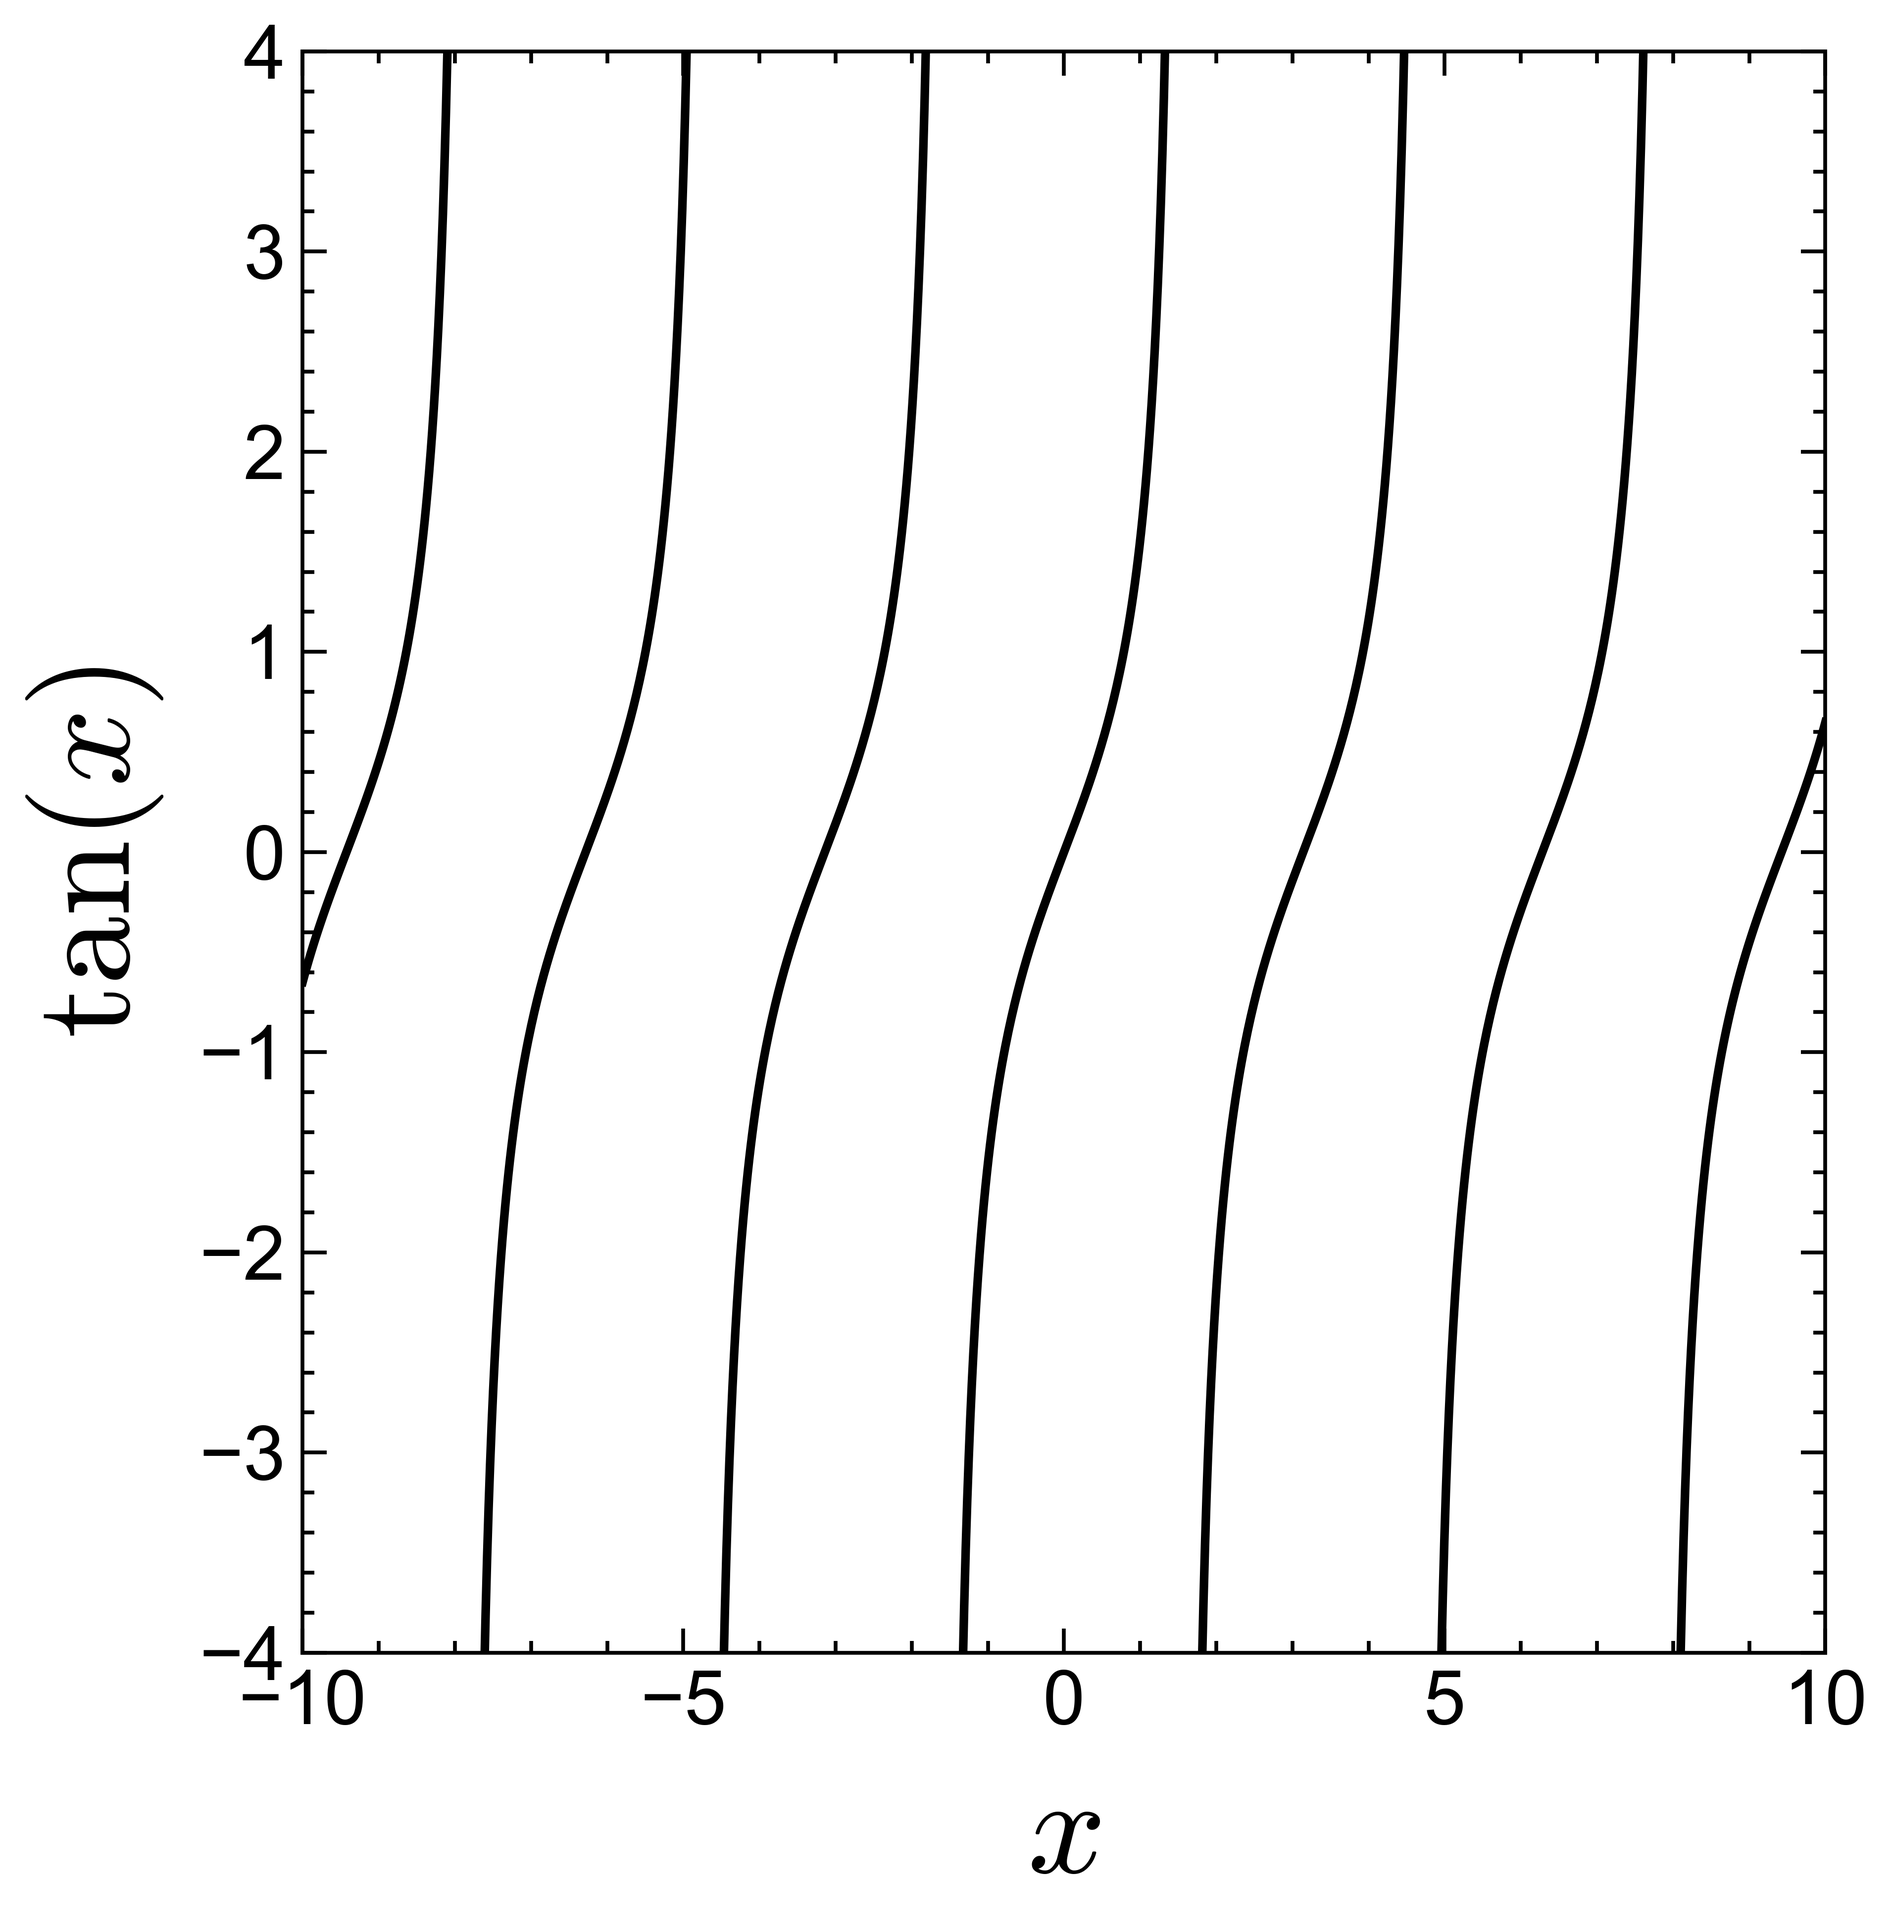
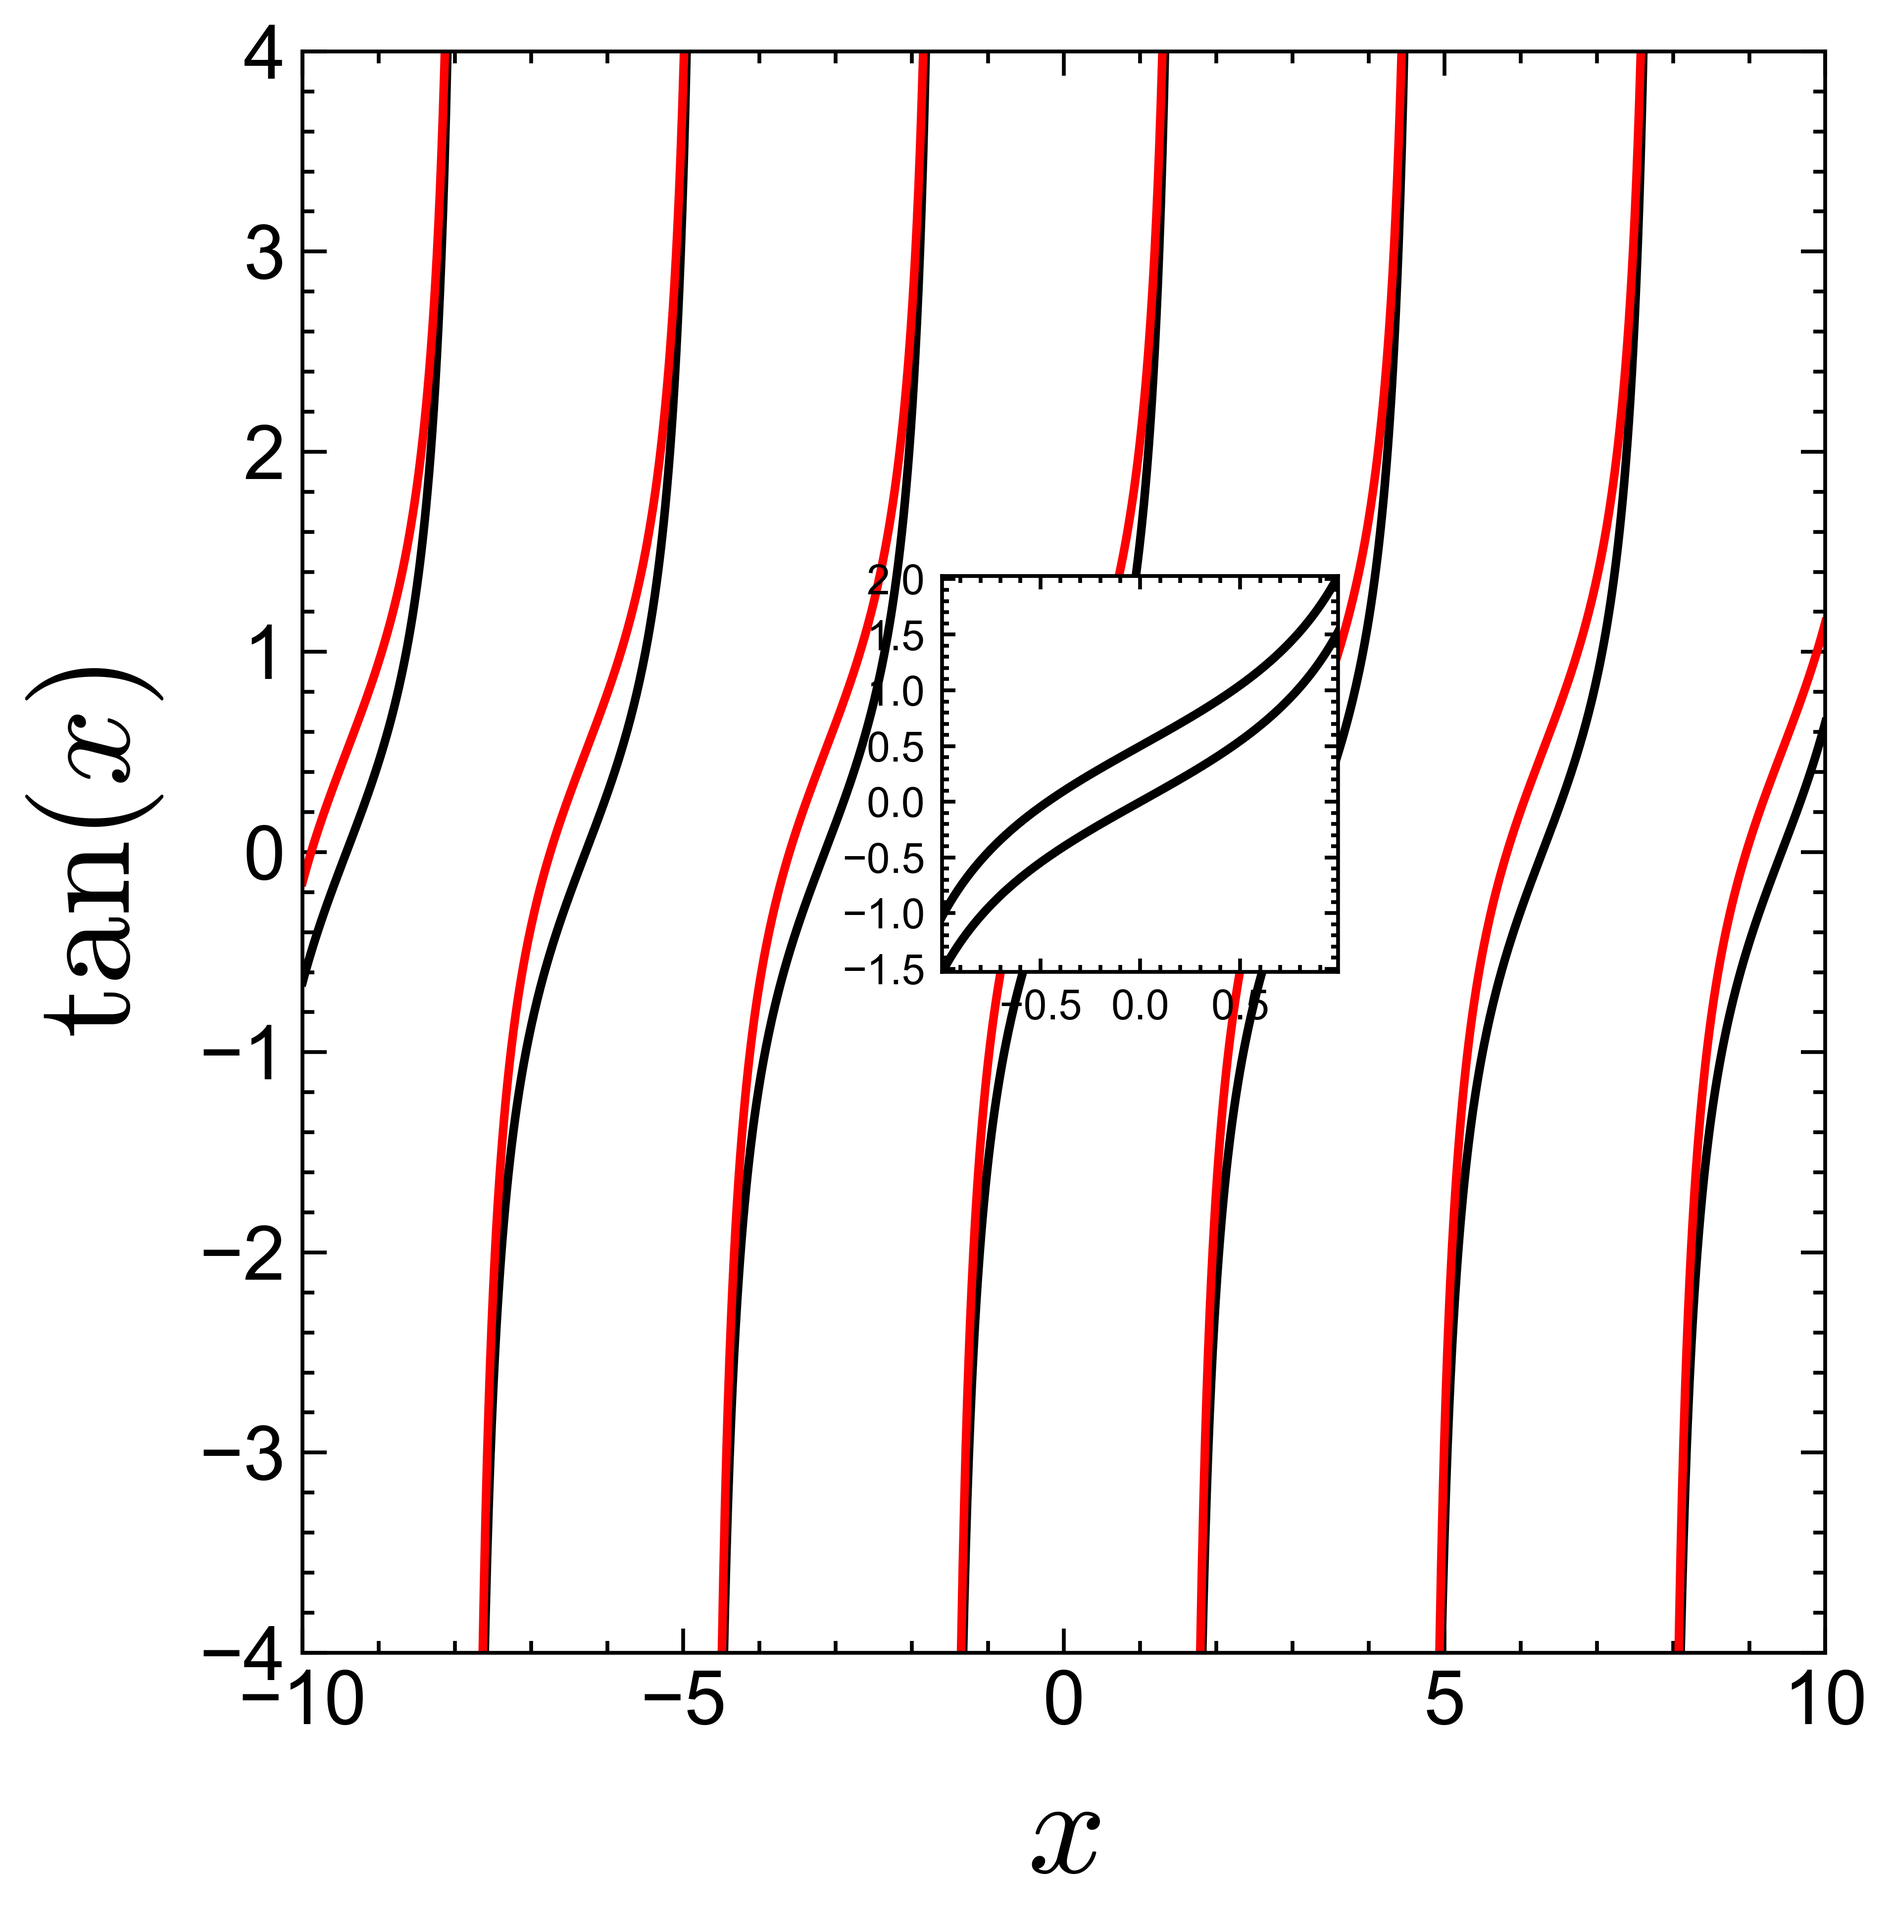
inset

diff --git a/test.py b/test.py
@@ -5,74 +5,74 @@ from Plooter import *
 
 FixPlot(8, 8)
 
-#2D LinePlot no fit
+# #2D LinePlot no fit
 
-x = np.linspace(-10, 10, 1000)
-y1 = np.sin(x)
+# x = np.linspace(-10, 10, 1000)
+# y1 = np.sin(x)
 
-fig, ax = plt.subplots()
-PlottaLine(ax, x, y1, label=r"$\sin(x)$")
+# fig, ax = plt.subplots()
+# PlottaLine(ax, x, y1, label=r"$\sin(x)$")
 
-y2 = np.sin(2.0 * x)
-PlottaLine(ax, x, y2, label=r"$\sin(2x)$")
+# y2 = np.sin(2.0 * x)
+# PlottaLine(ax, x, y2, label=r"$\sin(2x)$")
 
-nY = np.concatenate([y1, y2])
-nX = np.concatenate([x, x])
+# nY = np.concatenate([y1, y2])
+# nX = np.concatenate([x, x])
 
-FixScale(ax, nX, nY, pady=1/15, padx=1/8, mirrorx=True, mirrory=True)
-FixTicks(ax, 5, 5, 3, 0.2)
-ax.set_xlabel("$x$")
-ax.set_ylabel("$y$")
-ax.legend()
+# FixScale(ax, nX, nY, pady=1/15, padx=1/8, mirrorx=True, mirrory=True)
+# FixTicks(ax, 5, 5, 3, 0.2)
+# ax.set_xlabel("$x$")
+# ax.set_ylabel("$y$")
+# ax.legend()
 
-fig.savefig("2dNoFit.png", dpi=500, bbox_inches='tight')
+# fig.savefig("2dNoFit.png", dpi=500, bbox_inches='tight')
 
-#2D LinePlot with fit
+# #2D LinePlot with fit
 
-x = np.linspace(-10, 10, 1000)
-y = 5.3 * np.sin(x + 2.0) + 1.5
+# x = np.linspace(-10, 10, 1000)
+# y = 5.3 * np.sin(x + 2.0) + 1.5
 
-fig, ax = plt.subplots()
-a = PlottaLine(ax, x, y, fit=True, funcfit=lambda x, a, b, c, d, e: a * np.sin(b * x + c) * np.exp(-x) + d)
-yb = a['yb']
-yf = a['yf']
+# fig, ax = plt.subplots()
+# a = PlottaLine(ax, x, y, fit=True, funcfit=lambda x, a, b, c, d, e: a * np.sin(b * x + c) * np.exp(-x) + d)
+# yb = a['yb']
+# yf = a['yf']
 
-xb = a['xb']
-xf = a['xf']
+# xb = a['xb']
+# xf = a['xf']
 
-popt = a['popt']
-pconv = a['pcov']
+# popt = a['popt']
+# pconv = a['pcov']
 
-nY = np.concatenate([yb, yf])
-nX = np.concatenate([xb, xf])
+# nY = np.concatenate([yb, yf])
+# nX = np.concatenate([xb, xf])
 
-FixScale(ax, nX, nY, pady=1/15, padx=1/8, mirrorx=True, mirrory=True)
-FixTicks(ax, 5, 5, 3, 2.5)
-ax.set_xlabel("x")
-ax.set_ylabel("y")
-print("POPT: \n")
-print(popt)
-print("PCOV: \n")
-print(pconv)
+# FixScale(ax, nX, nY, pady=1/15, padx=1/8, mirrorx=True, mirrory=True)
+# FixTicks(ax, 5, 5, 3, 2.5)
+# ax.set_xlabel("x")
+# ax.set_ylabel("y")
+# print("POPT: \n")
+# print(popt)
+# print("PCOV: \n")
+# print(pconv)
 
-fig.savefig("2dWithFit.png", dpi=500, bbox_inches='tight')
+# fig.savefig("2dWithFit.png", dpi=500, bbox_inches='tight')
 
-#2D Scatter with fit
+# #2D Scatter with fit
 
-fig, ax = plt.subplots()
+# fig, ax = plt.subplots()
 
-x = 2 * np.random.random(100) - 1.0
-y = 2 * np.random.random(100) - 1.0
+# x = 2 * np.random.random(100) - 1.0
+# y = 2 * np.random.random(100) - 1.0
 
-PlottaScatter(ax, x, y, label=r"$\delta$")
+# PlottaScatter(ax, x, y, label=r"$\delta$")
 
-x = 2 * np.random.random(100) - 1.0
-y = 2 * np.random.random(100) - 1.0
+# x = 2 * np.random.random(100) - 1.0
+# y = 2 * np.random.random(100) - 1.0
 
-PlottaScatter(ax, x, y, label=r"$\omega$", color='green')
-ax.legend()
+# PlottaScatter(ax, x, y, label=r"$\omega$", color='green')
+# ax.legend()
 
-fig.savefig("2dScatter.png", dpi=500, bbox_inches='tight')
+# fig.savefig("2dScatter.png", dpi=500, bbox_inches='tight')
 
 
 #2D non continuos function
@@ -83,8 +83,17 @@ x = np.linspace(-10, 10, 1000)
 y = np.tan(x)
 
 PlottaLine(ax, x, y, contx=100, conty=100)
-FixScale(ax, x, y, 1/15, limy=[-4, 4])
+PlottaLine(ax, x, y + 0.5, contx=100, conty=100)
 
+
+FixScale(ax, x, y + 0.5, 1/15, limy=[-4, 4])
+
+x = 2 * np.random.random(100) - 1.0
+y = 2 * np.random.random(100) - 1.0
+
+# PlottaScatter(ax, x, y, label=r"$\omega$", color='green')
+
+AddInset(fig, ax, 0.5, 0.5, 0.2, 0.2, [-1, 1])
 Labels(ax, "$x$", r"$\tan(x)$")
 
 fig.savefig("2dNon.png", dpi=500, bbox_inches='tight')

diff --git a/Plooter.py b/Plooter.py
@@ -1,3 +1,4 @@
+from shutil import which
 import numpy as np
 import pandas as pd
 import matplotlib.pyplot as plt
@@ -5,6 +6,7 @@ from matplotlib.ticker import MaxNLocator
 from matplotlib.ticker import AutoMinorLocator, MultipleLocator, FormatStrFormatter
 from matplotlib import rcParams, cycler
 from scipy.optimize import curve_fit
+import matplotlib
 
 
 def FixPlot(lx, ly):
@@ -91,6 +93,12 @@ def FixScale(ax, datax, datay, pady=False, padx=False, mirrory=False, mirrorx=Fa
     if limx:
         maxX = limx[1]
         minX = limx[0]
+        ld = datax[datax < maxX]
+        ldy = datay[datax < maxX]
+
+        ldy = ldy[ld > minX]
+        ld = ld[ld > minX]
+        return FixScale(ax, ld, ldy, pady, padx, mirrory, mirrorx)
     
     if limy:
         maxY = limy[1]
@@ -206,3 +214,67 @@ def Labels(ax, labelx, labely):
     YLabel(ax, labely)
     XLabel(ax, labelx)
 
+#TODO: colocar pra plottar line e scatter juntas, trocar esquema de checagem
+def AddInset(fig, ax, left, bottom, width, height, lx, ly=False, multx=0.5, multy=0.5, minorx=5, minory=5, 
+             lw=2.5, size=20.0, fmt='-', contx=10.0, conty=10.0, **kargs):
+    ax2 = fig.add_axes([left, bottom, width, height])
+
+    childs = [i for i in ax.get_children() if type(i) == matplotlib.collections.PathCollection or type(i) == matplotlib.lines.Line2D] 
+    x = {"lines2d": [], "pathcole": []}
+    y = {"lines2d": [], "pathcole": []}
+    for i in childs:
+        if type(i) is matplotlib.lines.Line2D:
+            x['lines2d'].append(i.get_xdata())
+            y['lines2d'].append(i.get_ydata())
+        elif type(i) is matplotlib.collections.PathCollection:
+            o = (np.array(i.get_offsets()))
+            x_ = []
+            y_ = []
+            for e in o:
+                x_.append(e[0])
+                y_.append(e[1])
+            x['pathcole'].append(x_)
+            y['pathcole'].append(y_)
+    xScale = np.array([])
+    yScale = np.array([])
+    xpaths = []
+    ypaths = []
+    xlines = []
+    ylines = []
+    try:
+        xlines = np.concatenate([i for i in x['lines2d']])
+        ylines = np.concatenate([i for i in y['lines2d']])
+        PlottaLine(ax2, xlines, ylines, fmt, lw, **kargs)
+
+        xScale = np.concatenate([xScale, xlines])
+        yScale = np.concatenate([yScale, ylines])
+    except ValueError as e:
+        print(f"Error on LINES: {e}")
+
+    try:
+        xpaths = np.concatenate([i for i in x['pathcole']])
+        ypaths = np.concatenate([i for i in y['pathcole']])
+        PlottaScatter(ax2, xpaths, ypaths, size=size, **kargs)
+        xScale = np.concatenate([xScale, xpaths])
+        yScale = np.concatenate([yScale, ypaths])
+    except ValueError as e:
+        print(f"Error on PATHS: {e}")
+
+    ax2.tick_params(axis='x', which='both', labelsize=rcParams['xtick.labelsize'] / 1.8)
+    ax2.tick_params(axis="x", which="major", length=rcParams["xtick.major.size"] / 1.8)
+    ax2.tick_params(axis="x", which="minor", length=rcParams["xtick.minor.size"] / 1.8)
+
+    ax2.tick_params(axis='y', which='both', labelsize=rcParams['ytick.labelsize'] / 1.8)
+    ax2.tick_params(axis="y", which="major", length=rcParams["ytick.major.size"] / 1.8)
+    ax2.tick_params(axis="y", which="minor", length=rcParams["ytick.minor.size"] / 1.8)
+
+    PlottaScatter(ax2, xpaths, ypaths)
+
+    FixTicks(ax2, minorx, minory, multx, multy)
+    FixScale(ax2, xScale, yScale, limx=lx, limy=ly)
+    return ax, ax2
+
+def Zoom(ax, lx, ly):
+    ax.set_xlim(lx)
+    ax.set_ylim(ly)
+    return ax
